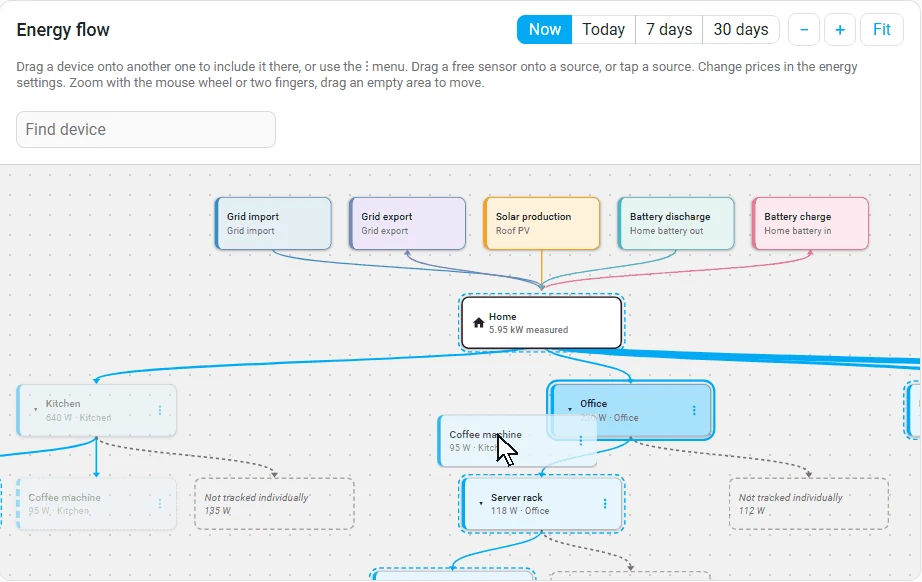
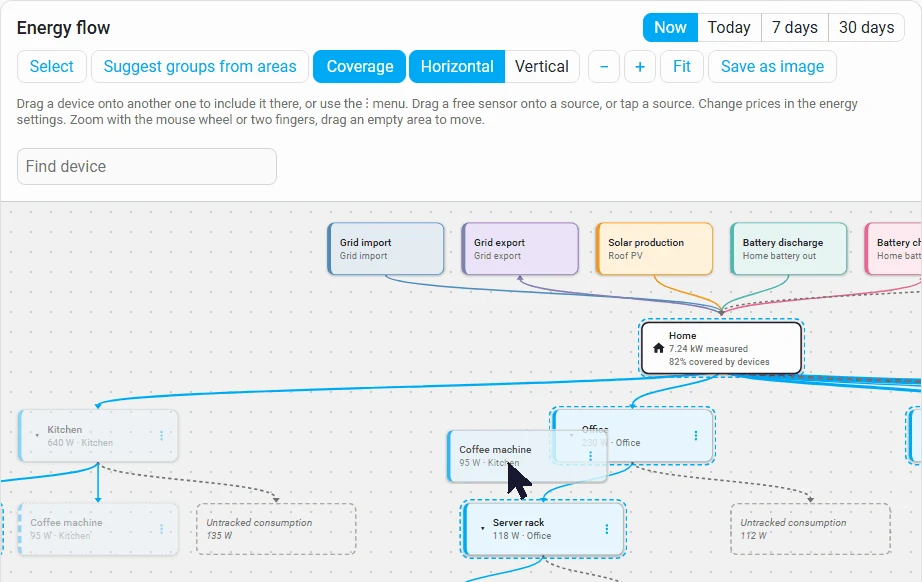
Replace the Energy Flow Mapper animations with 0.9.0 recordings
The drag, period and tab animations now show the current panel, with
untracked consumption, the toolbar and coverage at Home. The tab
animation includes the Gas tab, so its caption names electricity,
water and gas. New stills, updated alt texts.

diff --git a/de/energy-flow-mapper/index.html b/de/energy-flow-mapper/index.html
@@ -257,29 +257,29 @@
           <figure class="shot anim">
             <picture>
               <source media="(prefers-reduced-motion: reduce)" srcset="/assets/img/efm/drag-still.webp">
-              <img src="/assets/img/efm/drag.webp" alt="Die Kaffeemaschine wird auf Office gezogen; die möglichen Ziele leuchten auf" width="922" height="582" loading="lazy">
+              <img src="/assets/img/efm/drag.webp" alt="Die Kaffeemaschine wird auf Office gezogen; die gültigen Ziele leuchten auf, und Office ist vor dem Ablegen hervorgehoben" width="922" height="582" loading="lazy">
             </picture>
-            <img class="anim-still" src="/assets/img/efm/drag-still.webp" alt="Die Kaffeemaschine wird auf Office gezogen; die möglichen Ziele leuchten auf" width="922" height="582" loading="lazy">
+            <img class="anim-still" src="/assets/img/efm/drag-still.webp" alt="Die Kaffeemaschine wird auf Office gezogen; die gültigen Ziele leuchten auf, und Office ist vor dem Ablegen hervorgehoben" width="922" height="582" loading="lazy">
             <label class="anim-pause"><input type="checkbox">Animation anhalten</label>
             <figcaption><b>Drag and drop.</b> Zieh ein Gerät auf ein anderes, um es dort einzuordnen; gültige Ziele leuchten auf.</figcaption>
           </figure>
           <figure class="shot anim">
             <picture>
               <source media="(prefers-reduced-motion: reduce)" srcset="/assets/img/efm/periods-still.webp">
-              <img src="/assets/img/efm/periods.webp" alt="Wechsel zwischen jetzt, heute, 7 Tagen und 30 Tagen: Werte und Pfeilbreiten passen sich an" width="922" height="582" loading="lazy">
+              <img src="/assets/img/efm/periods.webp" alt="Wechsel zwischen Now, Today, 7 days und 30 days; Werte und Pfeilbreiten passen sich dem Zeitraum an" width="922" height="582" loading="lazy">
             </picture>
-            <img class="anim-still" src="/assets/img/efm/periods-still.webp" alt="Wechsel zwischen jetzt, heute, 7 Tagen und 30 Tagen: Werte und Pfeilbreiten passen sich an" width="922" height="582" loading="lazy">
+            <img class="anim-still" src="/assets/img/efm/periods-still.webp" alt="Wechsel zwischen Now, Today, 7 days und 30 days; Werte und Pfeilbreiten passen sich dem Zeitraum an" width="922" height="582" loading="lazy">
             <label class="anim-pause"><input type="checkbox">Animation anhalten</label>
             <figcaption><b>Live und pro Zeitraum.</b> Leistung jetzt oder die Energie von heute, 7 oder 30 Tagen. Die Pfeilbreite folgt dem Wert.</figcaption>
           </figure>
           <figure class="shot anim">
             <picture>
               <source media="(prefers-reduced-motion: reduce)" srcset="/assets/img/efm/tabs-still.webp">
-              <img src="/assets/img/efm/tabs.webp" alt="Wechsel vom Tab Strom zum Tab Wasser und zurück" width="946" height="486" loading="lazy">
+              <img src="/assets/img/efm/tabs.webp" alt="Wechsel vom Tab Electricity zum Tab Water, dann zum Tab Gas und zurück zu Electricity" width="946" height="486" loading="lazy">
             </picture>
-            <img class="anim-still" src="/assets/img/efm/tabs-still.webp" alt="Wechsel vom Tab Strom zum Tab Wasser und zurück" width="946" height="486" loading="lazy">
+            <img class="anim-still" src="/assets/img/efm/tabs-still.webp" alt="Wechsel vom Tab Electricity zum Tab Water, dann zum Tab Gas und zurück zu Electricity" width="946" height="486" loading="lazy">
             <label class="anim-pause"><input type="checkbox">Animation anhalten</label>
-            <figcaption><b>Strom und Wasser.</b> Jedes hat einen eigenen Tab mit eigenen Geräten, Zählern und freien Sensoren; auch Gas hat einen eigenen Tab.</figcaption>
+            <figcaption><b>Strom, Wasser und Gas.</b> Jedes hat einen eigenen Tab mit eigenen Zählern und freien Sensoren; Strom und Wasser auch mit ihren Geräten.</figcaption>
           </figure>
         </div>
       </div>

diff --git a/energy-flow-mapper/index.html b/energy-flow-mapper/index.html
@@ -256,29 +256,29 @@
           <figure class="shot anim">
             <picture>
               <source media="(prefers-reduced-motion: reduce)" srcset="/assets/img/efm/drag-still.webp">
-              <img src="/assets/img/efm/drag.webp" alt="Dragging the coffee machine onto Office; the possible targets light up" width="922" height="582" loading="lazy">
+              <img src="/assets/img/efm/drag.webp" alt="Dragging the coffee machine onto Office; the valid drop targets light up and Office is highlighted before the drop" width="922" height="582" loading="lazy">
             </picture>
-            <img class="anim-still" src="/assets/img/efm/drag-still.webp" alt="Dragging the coffee machine onto Office; the possible targets light up" width="922" height="582" loading="lazy">
+            <img class="anim-still" src="/assets/img/efm/drag-still.webp" alt="Dragging the coffee machine onto Office; the valid drop targets light up and Office is highlighted before the drop" width="922" height="582" loading="lazy">
             <label class="anim-pause"><input type="checkbox">Pause animation</label>
             <figcaption><b>Drag and drop.</b> Drop a device onto another one to include it there; valid targets light up.</figcaption>
           </figure>
           <figure class="shot anim">
             <picture>
               <source media="(prefers-reduced-motion: reduce)" srcset="/assets/img/efm/periods-still.webp">
-              <img src="/assets/img/efm/periods.webp" alt="Switching between now, today, 7 days and 30 days: values and arrow widths follow" width="922" height="582" loading="lazy">
+              <img src="/assets/img/efm/periods.webp" alt="Switching between Now, Today, 7 days and 30 days; the values and the arrow widths follow the period" width="922" height="582" loading="lazy">
             </picture>
-            <img class="anim-still" src="/assets/img/efm/periods-still.webp" alt="Switching between now, today, 7 days and 30 days: values and arrow widths follow" width="922" height="582" loading="lazy">
+            <img class="anim-still" src="/assets/img/efm/periods-still.webp" alt="Switching between Now, Today, 7 days and 30 days; the values and the arrow widths follow the period" width="922" height="582" loading="lazy">
             <label class="anim-pause"><input type="checkbox">Pause animation</label>
             <figcaption><b>Live and per period.</b> Power now, or the energy of today, 7 or 30 days. Arrow widths follow the value.</figcaption>
           </figure>
           <figure class="shot anim">
             <picture>
               <source media="(prefers-reduced-motion: reduce)" srcset="/assets/img/efm/tabs-still.webp">
-              <img src="/assets/img/efm/tabs.webp" alt="Switching from the electricity tab to the water tab and back" width="946" height="486" loading="lazy">
+              <img src="/assets/img/efm/tabs.webp" alt="Switching from the Electricity tab to the Water tab, then to the Gas tab, and back to Electricity" width="946" height="486" loading="lazy">
             </picture>
-            <img class="anim-still" src="/assets/img/efm/tabs-still.webp" alt="Switching from the electricity tab to the water tab and back" width="946" height="486" loading="lazy">
+            <img class="anim-still" src="/assets/img/efm/tabs-still.webp" alt="Switching from the Electricity tab to the Water tab, then to the Gas tab, and back to Electricity" width="946" height="486" loading="lazy">
             <label class="anim-pause"><input type="checkbox">Pause animation</label>
-            <figcaption><b>Electricity and water.</b> Each has its own tab with its own devices, meters and free sensors; gas has a tab of its own too.</figcaption>
+            <figcaption><b>Electricity, water and gas.</b> Each has its own tab with its own meters and free sensors; electricity and water also with their devices.</figcaption>
           </figure>
         </div>
       </div>

diff --git a/scripts/prepare_images.py b/scripts/prepare_images.py
@@ -37,9 +37,9 @@ DC_CARD_ONE = (26, 26, 523, 543)  # the push-ups card
 
 # Frames that show the action the alt text of each animation describes.
 STILLS = (
-    ("efm", "periods", (69, 73, 77)),  # 30 days selected
+    ("efm", "periods", (62, 68, 74)),  # 30 days selected
     ("efm", "drag", (31,)),  # the coffee machine on its way to Office, targets lit
-    ("efm", "tabs", (21, 26, 30)),  # the water tab
+    ("efm", "tabs", (18, 24, 29)),  # the water tab
     ("efm", "groups", (138, 144, 150)),  # both groups collapsed, Basement with its sum
     ("dc", "buttons", (25, 27, 32)),  # +5 reached today's goal, with Undo in the message
     ("dc", "input", (26,)),  # the input with 32 typed
